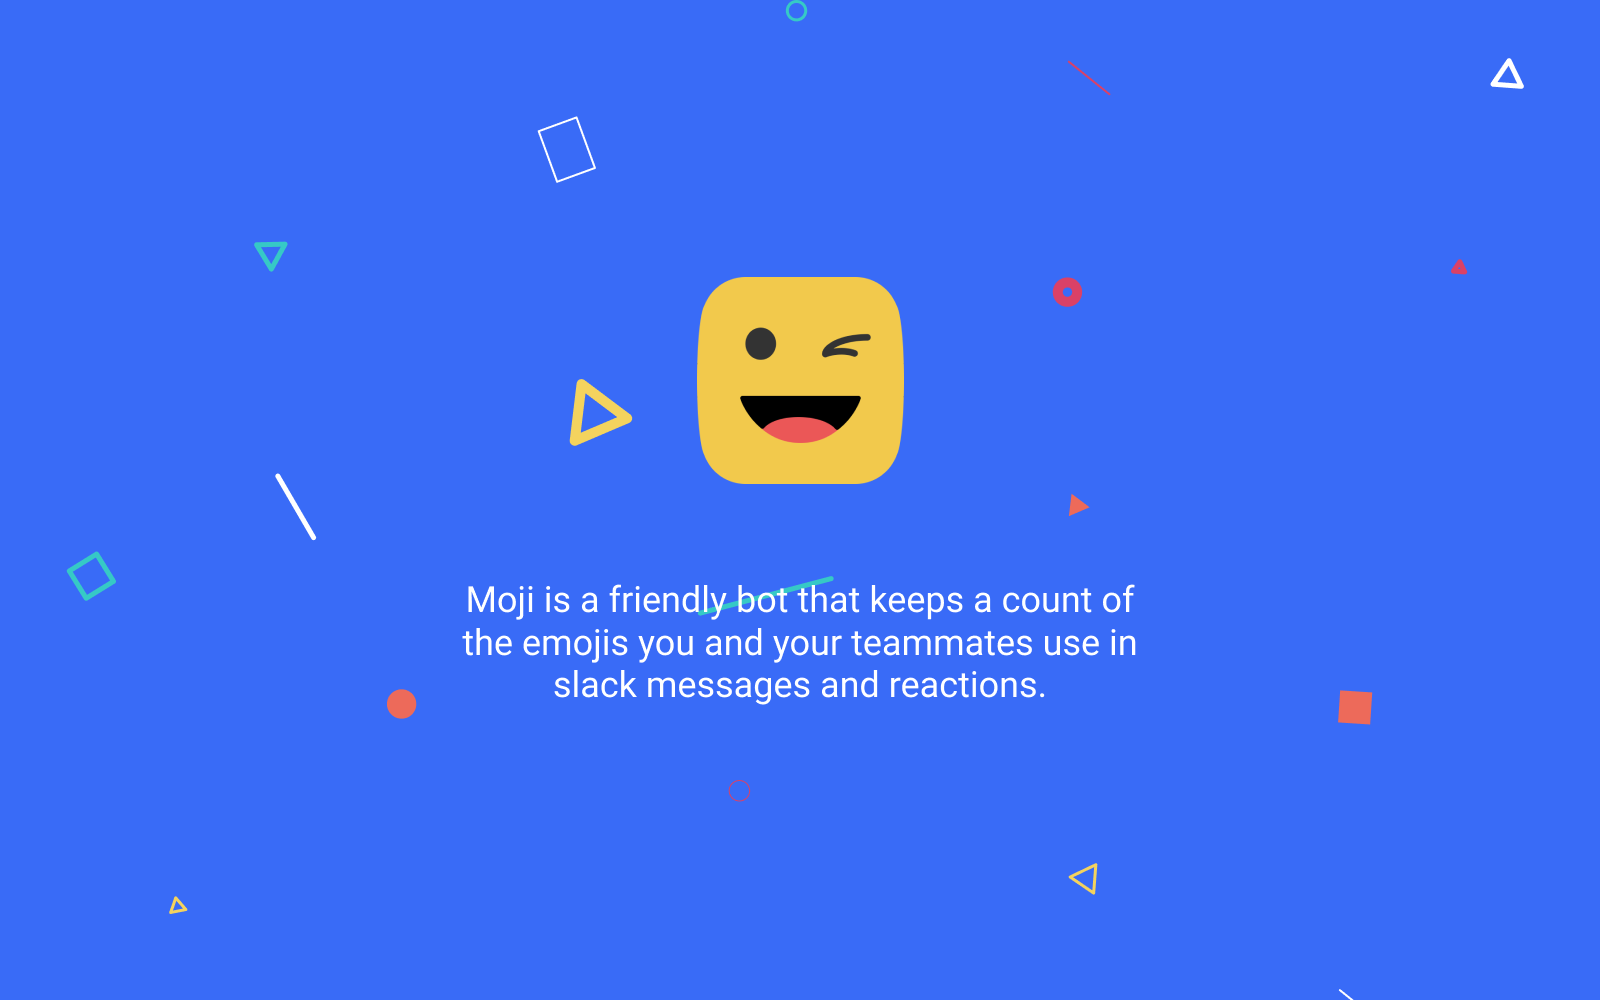
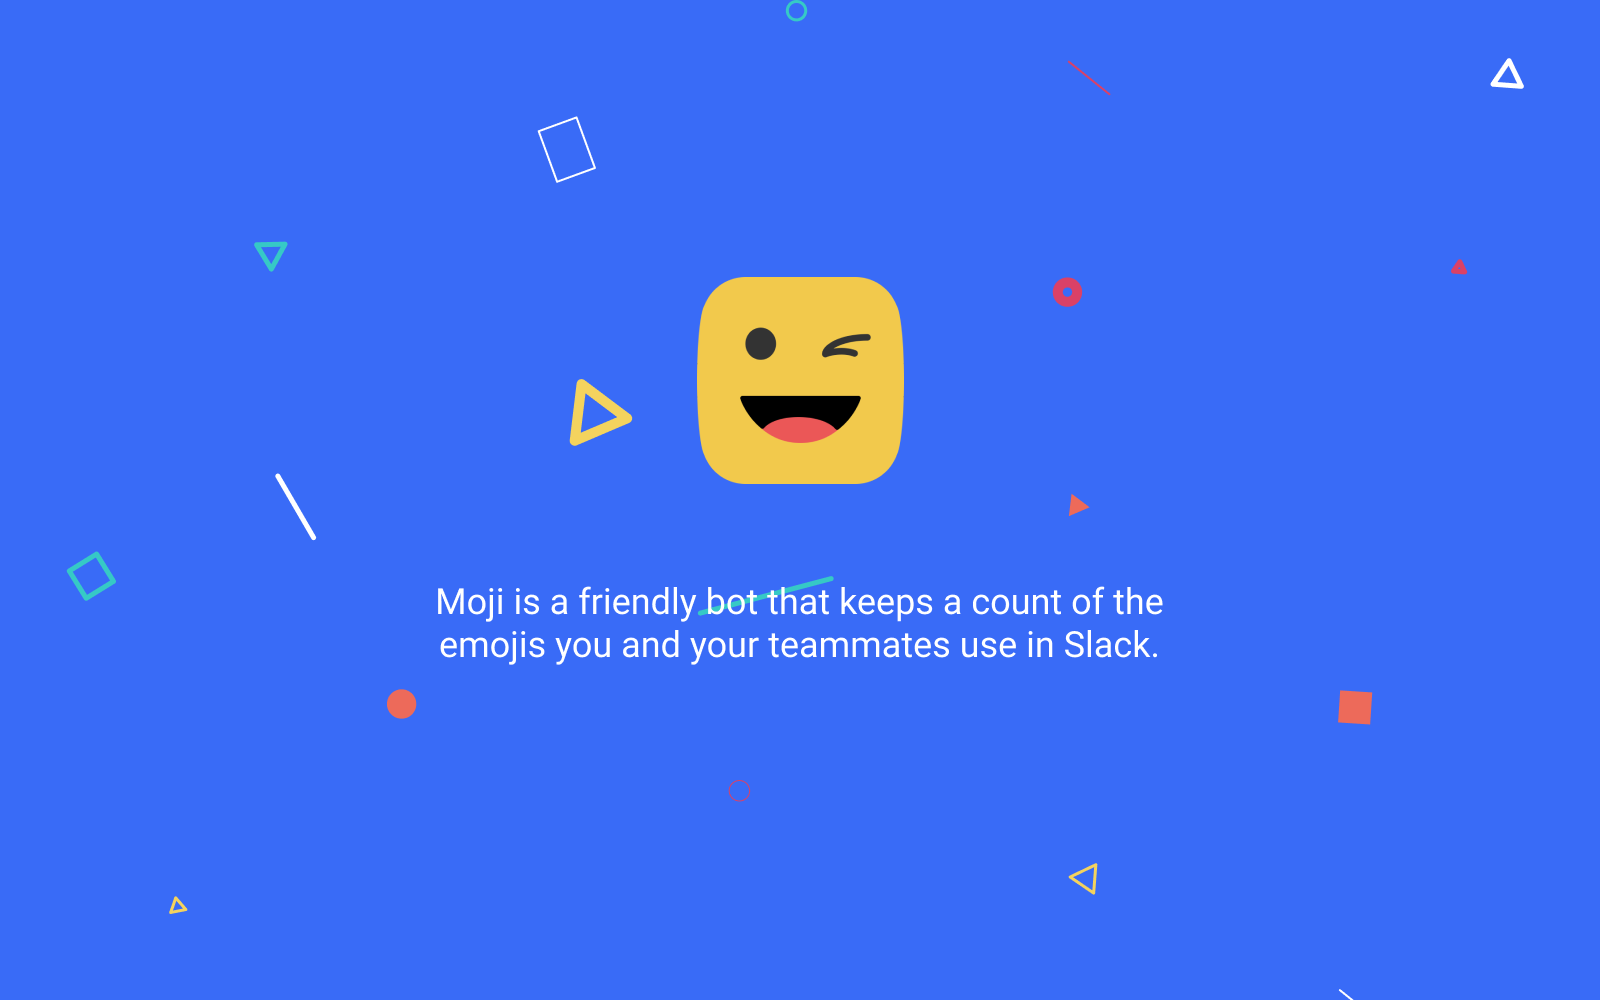
Updated meta tags

Changed region(s): [[0.25, 0.589, 0.7188, 0.713]]

diff --git a/index.html b/index.html
@@ -8,7 +8,7 @@
 
   <meta charSet="utf-8">
   <meta name="viewport" content="width=device-width,initial-scale=1">
-  <meta name="description" content="Moji is a friendly bot that keeps a count of the emojis you and your teammates use in Slack messages and reactions.">
+  <meta name="description" content="Moji is a friendly bot that keeps a count of the emojis you and your teammates use in Slack.">
   <meta name="robots" content="index, follow">
   <meta name="author" content="Gary Torres">
 
@@ -33,8 +33,23 @@
   <meta name="twitter:card" content="summary_large_image">
   <meta name="twitter:site" content="http://mojibot.chat">
   <meta name="twitter:title" content="Mojibot - Make emojis count">
-  <meta name="twitter:description" content="Moji is a friendly bot that keeps a count of the emojis you and your teammates use in Slack messages and reactions.">
+  <meta name="twitter:description" content="Moji is a friendly bot that keeps a count of the emojis you and your teammates use in Slack.">
   <meta name="twitter:image" content="http://mojibot.chat/img/intro-2.png">
+
+
+  <!-- Search Engine -->
+  <meta name="image" content="http://mojibot.chat/img/intro-1.png">
+  <!-- Schema.org for Google -->
+  <meta itemprop="name" content="Moji - Make emojis count">
+  <meta itemprop="description" content="Moji is a friendly bot that keeps a count of the emojis you and your teammates use in Slack.">
+  <meta itemprop="image" content="http://mojibot.chat/img/intro-1.png">
+  <!-- Open Graph general (Facebook, Pinterest & Google+) -->
+  <meta name="og:title" content="Moji - Make emojis count">
+  <meta name="og:description" content="Moji is a friendly bot that keeps a count of the emojis you and your teammates use in Slack.">
+  <meta name="og:image" content="http://mojibot.chat/img/intro-2.png">
+  <meta name="og:url" content="http://mojibot.chat">
+  <meta name="og:site_name" content="Moji - Make emojis count">
+  <meta name="og:type" content="website">
 
   <link rel="stylesheet" type="text/css" href="css/main.css">
   <link rel="stylesheet" type="text/css" href="css/devices.css">
@@ -176,7 +191,7 @@
                 track of them, a few weeks later Moji was born.
               </li>
               <li>
-                <strong>I have an awesome idea for a feature!</strong> Great! Please contact me at 
+                <strong>I have an awesome idea for a feature!</strong> Great! Please contact me at
                 <a class="slack-command" target="_blank" href="mailto:hello@mojibot.chat">
               hello@mojibot.chat</a>. Feedback, bugs and feature ideas are greatly appreciated!
               </li>
@@ -186,7 +201,10 @@
                 will tell you the details. More features will be added in the future.
               </li>
               <li>
-                <strong>What about privacy?</strong> Moji respects your privacy and doesn't store any messages or personal information. Moji only collects your user id and the emojis you use to build leaderboards and count your favorite emojis. All this data is yours, is not shared nor sold, is private and is secured so rest asured and have fun! If you have any questions please <a class="slack-command" target="_blank" href="mailto:hello@mojibot.chat">let me know</a>.
+                <strong>What about privacy?</strong> Moji respects your privacy and doesn't store any messages or personal
+                information. Moji only collects your user id and the emojis you use to build leaderboards and count your
+                favorite emojis. All this data is yours, is not shared nor sold, is private and is secured so rest asured
+                and have fun! If you have any questions please <a class="slack-command" target="_blank" href="mailto:hello@mojibot.chat">let me know</a>.
               </li>
             </ul>
           </p>
@@ -200,7 +218,7 @@
         <h5 class="heading">
           Make every emoji count with Moji ✨
         </h5>
-        <img src="img/moods/wink.png" width="60"/>
+        <img src="img/moods/wink.png" width="60" />
         <div class="ctas">
           <a class="ctas-button add-to-slack-button" href="http://api.mojibot.chat/login">
             <img class="slack-logo" src="img/slack_logo_black.svg" height="40" />
